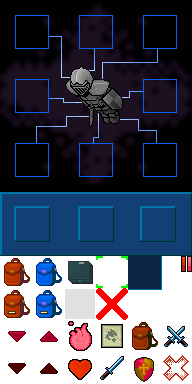
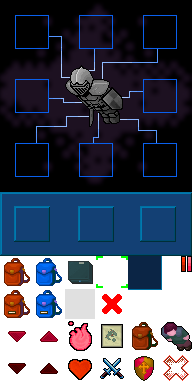
working on equipment handling

diff --git a/index.js b/index.js
@@ -40,20 +40,16 @@ window.addEventListener('load', (event) => {
 
   // Const Variables - Integers | Arrays | Objects | Selectors
   const offsetEquip = 16;
-
-  const upperTiles = [ 576, 577, 578, 579, 601, 602, 603, 604 ];
   
+  const upperTiles = [ 576, 577, 578, 579, 601, 602, 603, 604 ];
   const waterTiles = [ 1, 2, 3, 4, 5, 6, 7, 8 ];
-
-  const originalItemPosition = {};
-
+  
   const scrollMapBtns = { 
     inactiveDown : { sx: 0, sy: 320, dx: screen.width + 160, dy: 288, pixelSize: 32 },
     inactiveUp: { sx: 32, sy: 320, dx: screen.width + 160, dy: 256, pixelSize: 32 },
     activeDown: { sx: 0, sy: 352, dx: screen.width + 160, dy: 288, pixelSize: 32 },
     activeUp: { sx: 32, sy: 352, dx: screen.width + 160, dy: 256, pixelSize: 32 }
   };
-  
   const mapContentsGenus = {
     1: { location: { x: 493, y: 588 }, area: "The Genus Temple", description: "An antiquated sanctuary said to have been constructed when gods wandered the Oasis. In service to the old world, warpriest Heremal welcomes new generations of warriors." },
     2: { location: { x: 530, y: 545 }, area: "Willow's Rest", description: "It lacks charm, comfort, and cleanliness. It is not a mystical retreat, nor a grove of tranquility. It is a place where warriors sleep." },
@@ -82,37 +78,35 @@ window.addEventListener('load', (event) => {
     25: { location: { x: 252, y: 360 }, area: "The River Den", description: "Discover the ocean river below, but beware the area's rats and spiders that roam the den." },
     26: { location: { x: 190, y: 210 }, area: "The Grottos", description: "Some dangerous creatures can be found in the light of day. More fearsome creatures lurk in its shadows. There are long told tales of a Troll King somewhere beneathe the islands. Beware in the Grottos." }
   };
-
-  const equipLocations = {
+  const equip = {
     area: { x: screen.width, y: 0 , size: 192 },
-    neck: { x: screen.width + offsetEquip, y: offsetEquip },
-    head: { x: screen.width + (offsetEquip * 5), y: offsetEquip },
-    back: { x: screen.width + (offsetEquip * 9), y: offsetEquip },
-    chest: { x: screen.width + offsetEquip, y: offsetEquip * 5 },
-    offhand: { x: screen.width + (offsetEquip * 9), y: offsetEquip * 5 },
-    mainhand: { x: screen.width + offsetEquip, y: offsetEquip * 9 },
-    legs: { x: screen.width + (offsetEquip * 5), y: offsetEquip * 9 },
-    feet: { x: screen.width + (offsetEquip * 9), y: offsetEquip * 9 },
+    neck: { slot: null, x: screen.width + offsetEquip, y: offsetEquip },
+    head: { slot: null, x: screen.width + (offsetEquip * 5), y: offsetEquip },
+    back: { slot: null, x: screen.width + (offsetEquip * 9), y: offsetEquip },
+    chest: { slot: null, x: screen.width + offsetEquip, y: offsetEquip * 5 },
+    offhand: { slot: null, x: screen.width + (offsetEquip * 9), y: offsetEquip * 5 },
+    mainhand: { slot: null, x: screen.width + offsetEquip, y: offsetEquip * 9 },
+    legs: { slot: null, x: screen.width + (offsetEquip * 5), y: offsetEquip * 9 },
+    feet: { slot: null, x: screen.width + (offsetEquip * 9), y: offsetEquip * 9 },
   };
 
   const itemData = document.querySelector('#item-info');
-
   const form = document.querySelector('.form-container');
-  form.closed = false;
+  const login = document.getElementById('login-form');
 
-  // Let Variables - Strings | Bools | Arrays
+  // Let Variables - Strings | Bools | Arrays | Objects
   let currentInterface = 'inventorybtn';
   
   let activeButtonFlag = false;
-
   let chatbox = false;
-
+  
   let boundaries = [], wateries = [];
-
   let inWorldObjects = [];
-
+  let equipped = [];
   let inventory = [];
   
+  let originalItemPosition = {};
+
   // Init Player and Append Stats
   const player = new Player({
     source: { downward: { sx: 0, sy: 0 }, upward: { sx: 64, sy: 0 }, rightward: { sx: 128, sy: 0 }, leftward: { sx: 192, sy: 0 } },
@@ -153,8 +147,6 @@ window.addEventListener('load', (event) => {
       drawInterface();
     }, 500);
   };
-  
-  document.getElementById('login-form').addEventListener('submit', initPlayerData);
 
   // POST player data to backend json file
   const updatePlayerData = async () => {
@@ -176,7 +168,7 @@ window.addEventListener('load', (event) => {
       console.error('Error saving player data.', error);
     };
   };
-  
+
   // Draw Functions
   const drawGenus = ({ player }, currentMap = resources.mapData.isLoaded && resources.mapData.genus01.layers) => {
     boundaries = [];
@@ -219,24 +211,28 @@ window.addEventListener('load', (event) => {
             uppermost.push(upper);
           };
 
+          // Check for water tiles
+          if (waterTiles.includes(tileID)) {
+            const water = new Tile({
+              source: {
+                wsx: sx,
+                wsy: sy
+              },
+              destination: {
+                wdx: dx,
+                wdy: dy
+              },
+              pixelSize: 64
+            });
+            wateries.push(water);
+          };
+
           // Check for collision tiles
           if (tileID === 25) { 
             const boundary = new Tile({
               destination: { bdx: dx, bdy: dy }
             });
             boundaries.push(boundary);
-          // } else if (waterTiles.includes(tileID)) {
-          //   const water = new Tile({
-          //     source: {
-          //       wsx: sx,
-          //       wsy: sy
-          //     },
-          //     destination: {
-          //       wdx: dx,
-          //       wdy: dy
-          //     }
-          //   });
-          //   wateries.push(water);
           } else {
             ctx.drawImage( genus, sx, sy, genus.pixelSize, genus.pixelSize, dx, dy, genus.pixelSize, genus.pixelSize );
           };
@@ -363,8 +359,9 @@ window.addEventListener('load', (event) => {
     };
   };
 
-  const drawEquipmentInterface = () => {
+  const drawEquip = () => {
     ctx.drawImage( ui, 0, 0, 192, 192, screen.width, 0, 192, 192 );
+    equipped.forEach(item => item.draw(ctx));
   };
 
   const drawInventory = (backpack = null, container = null) => {
@@ -386,7 +383,7 @@ window.addEventListener('load', (event) => {
         drawMapContentSection();
         break;
       case 'inventorybtn':
-        drawEquipmentInterface();
+        drawEquip();
         drawInterfaceToggle(input);
         drawInventory();
       break;
@@ -545,6 +542,99 @@ window.addEventListener('load', (event) => {
       };
     };
   };
+
+  const waterDetect = (newX, newY) => {
+    for (let i = 0 ; i < wateries.length ; i++) {
+      const water = wateries[i];
+
+      if (
+        newX < water.destination.wdx + water.pixelSize &&
+        newX + player.pixelSize > water.destination.wdx &&
+        newY < water.destination.wdy + water.pixelSize &&
+        newY + player.pixelSize > water.destination.wdy
+      ) {
+        return true;
+      };
+    };
+  };
+
+  const equipDetect = (newX, newY, item) => {
+    if (
+      newX < screen.width + 192 &&
+      newX + item.pixelSize > screen.width &&
+      newY < 192 &&
+      newY + item.pixelSize > 0
+    ) {
+      switch(item.type) {
+        case 'neck':
+          if (equip.neck.slot) {
+            
+          }
+          break;
+        case 'head':
+          if (equip.head.slot) {
+            
+          }
+          break;
+        case 'back':
+          if (equip.back.slot) {
+            
+          }
+          break;
+        case 'chest':
+          if (equip.chest.slot) {
+            
+          }
+          break;
+        case 'offhand':
+          if (equip.offhand.slot) {
+            
+          }
+          break;
+        case 'mainhand':
+          if (equip.mainhand.slot === null) {
+            equip.mainhand.slot = item.name;
+            item.destination.dx = equip.mainhand.x;
+            item.destination.dy = equip.mainhand.y;
+            item.scale = 0.5;
+
+            equipped.push(item);
+            inWorldObjects.splice(inWorldObjects.indexOf(item), 1);
+            
+            ctx.clearRect(screen.width, 0, 192, 192);
+            drawEquip();
+          } else {
+            
+          };
+          break;
+        case 'legs':
+          if (equip.legs.slot) {
+            
+          }
+          break;
+        case 'feet':
+          if (equip.feet.slot) {
+            
+          }
+          break;
+        default: break;
+      };
+    };
+        // code to remove items
+        // draw item in equipment slot
+  };
+
+  // equip = {
+  //   area: { x: screen.width, y: 0 , size: 192 },
+  //   neck: { slot: null, x: screen.width + offsetEquip, y: offsetEquip },
+  //   head: { slot: null, x: screen.width + (offsetEquip * 5), y: offsetEquip },
+  //   back: { slot: null, x: screen.width + (offsetEquip * 9), y: offsetEquip },
+  //   chest: { slot: null, x: screen.width + offsetEquip, y: offsetEquip * 5 },
+  //   offhand: { slot: null, x: screen.width + (offsetEquip * 9), y: offsetEquip * 5 },
+  //   mainhand: { slot: null, x: screen.width + offsetEquip, y: offsetEquip * 9 },
+  //   legs: { slot: null, x: screen.width + (offsetEquip * 5), y: offsetEquip * 9 },
+  //   feet: { slot: null, x: screen.width + (offsetEquip * 9), y: offsetEquip * 9 },
+  // };
 
   // Event Listeners
   addEventListener('mousedown', (e) => {
@@ -724,6 +814,12 @@ window.addEventListener('load', (event) => {
         item.destination.dx = Math.floor(posX / 64) * 64;
         item.destination.dy = Math.floor(posY / 64) * 64;
         
+        if (waterDetect(item.destination.dx, item.destination.dy)) {
+          inWorldObjects = inWorldObjects.filter(obj => obj.id !== item.id);
+          ctx.clearRect(0, 0, screen.width, screen.height);
+          drawGenus({ player });
+        };
+
         if (collisionDetect(item.destination.dx, item.destination.dy)) {
           item.destination.dx = originalItemPosition.x;
           item.destination.dy = originalItemPosition.y;
@@ -737,8 +833,10 @@ window.addEventListener('load', (event) => {
           drawGenus({ player });
         };
         
+        equipDetect(item.destination.dx, item.destination.dy, item);
         item.isDragging = false;
       };
+
     });
   });
 
@@ -797,6 +895,8 @@ window.addEventListener('load', (event) => {
     // Redraw map and player when player moves
     form.closed && drawGenus({ player });    
   });
+
+  login.addEventListener('submit', initPlayerData);
 
   window.addEventListener('beforeunload', e => {
     e.preventDefault();

diff --git a/src/Classes.js b/src/Classes.js
@@ -46,6 +46,7 @@ export class Item {
     this.pixelSize = 64;
     this.scale = 1;
     this.isDragging = false;
+    // this.isEquipped = false;
   }
 
   draw = (ctx) => {
